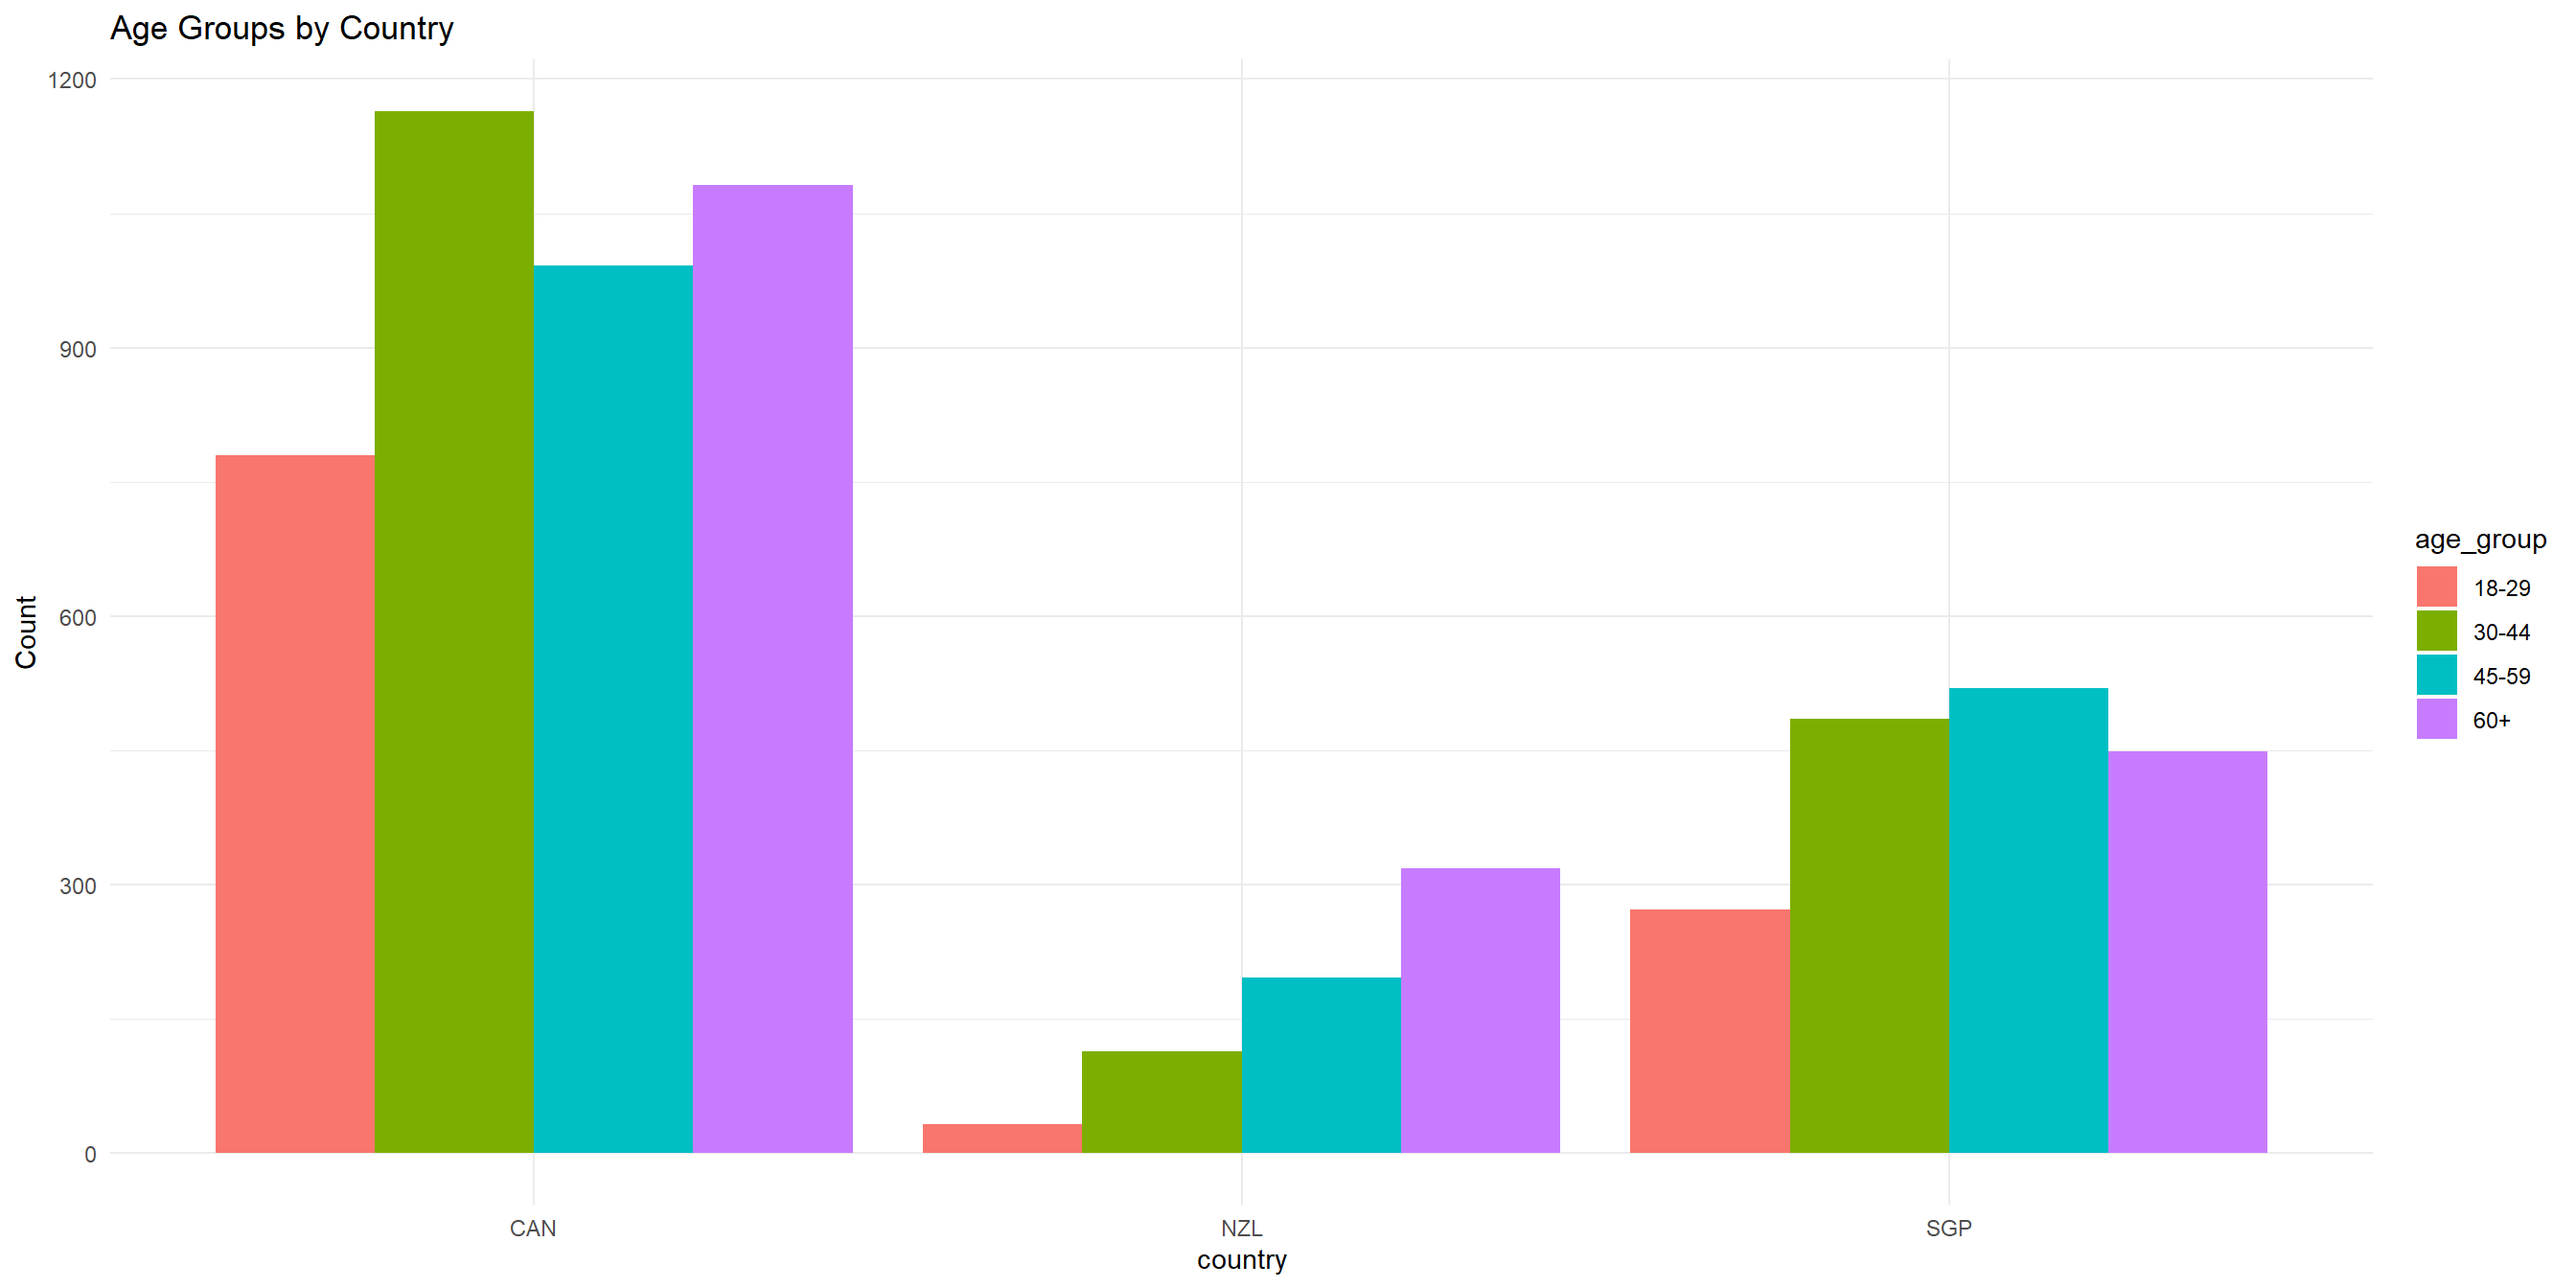
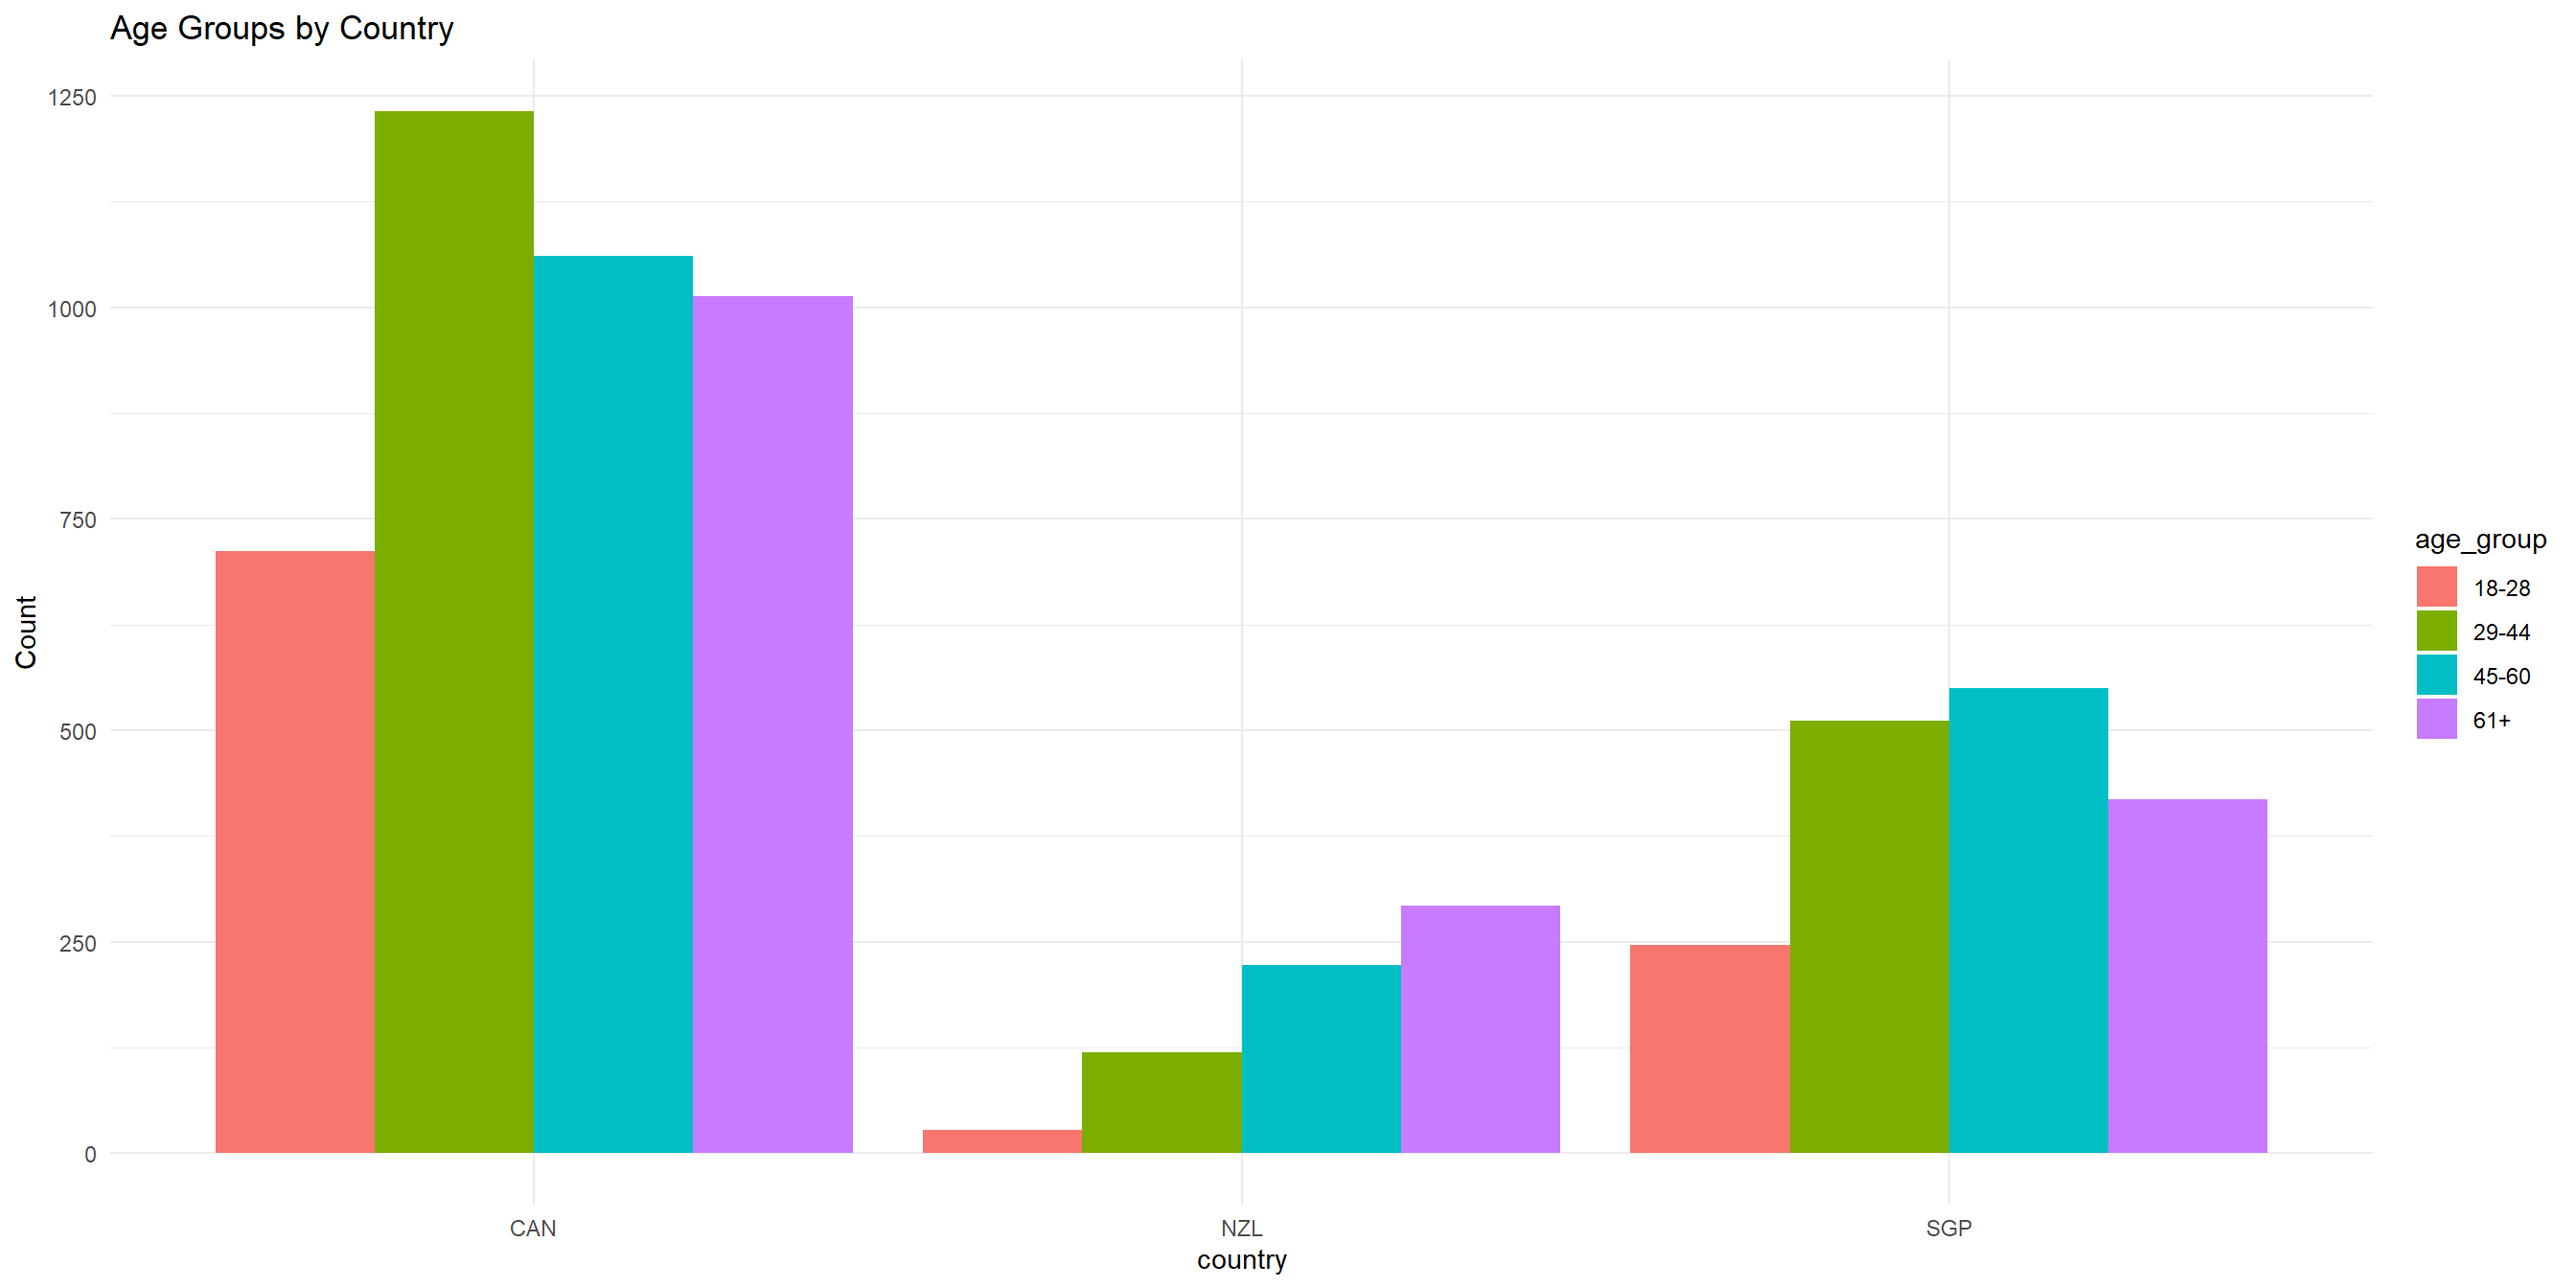
Built site for gh-pages

diff --git a/dataset.html b/dataset.html
@@ -148,7 +148,8 @@ gtag('config', 'G-G5L1RGYC4H', { 'anonymize_ip': true});
     <h2 id="toc-title">On this page</h2>
    
   <ul>
-  <li><a href="#data-dictionary-for-wvs-dataset" id="toc-data-dictionary-for-wvs-dataset" class="nav-link active" data-scroll-target="#data-dictionary-for-wvs-dataset">Data Dictionary for WVS dataset</a></li>
+  <li><a href="#data-for-session-3-onwards" id="toc-data-for-session-3-onwards" class="nav-link active" data-scroll-target="#data-for-session-3-onwards">Data for session 3 onwards</a></li>
+  <li><a href="#data-dictionary-for-wvs-dataset" id="toc-data-dictionary-for-wvs-dataset" class="nav-link" data-scroll-target="#data-dictionary-for-wvs-dataset">Data Dictionary for WVS dataset</a></li>
   <li><a href="#references" id="toc-references" class="nav-link" data-scroll-target="#references">References</a></li>
   </ul>
 </nav>
@@ -177,6 +178,9 @@ gtag('config', 'G-G5L1RGYC4H', { 'anonymize_ip': true});
 
 <p>For this workshop, we will be using dataset stored in a CSV file called <code>wvs-wave7-sg-ca-nz.csv</code>.</p>
 <a href="https://raw.githubusercontent.com/bellaratmelia/introductory-r-socsci/refs/heads/main/data/wvs-wave7-sg-ca-nz.csv" type="button" class="btn btn-success">Click here to open wvs-wave7-sg-ca-nz.csv, and then Ctrl + S / Cmd + S to save it locally into your data folder</a>
+<section id="data-for-session-3-onwards" class="level3">
+<h3 class="anchored" data-anchor-id="data-for-session-3-onwards">Data for session 3 onwards</h3>
+<p>If you missed Session 2 where we cleaned and tidy our data, you can download the cleaned data here: <a href="https://raw.githubusercontent.com/bellaratmelia/introductory-r-socsci/refs/heads/main/data-output/wvs_cleaned_v1.csv">wvs_cleaned_v1.csv</a></p>
 <div class="callout callout-style-simple callout-note callout-titled">
 <div class="callout-header d-flex align-content-center">
 <div class="callout-icon-container">
@@ -192,6 +196,7 @@ What is a CSV?
 <p>You can open CSV files in Excel, Google Sheets, or even Notepad!</p>
 </div>
 </div>
+</section>
 <section id="data-dictionary-for-wvs-dataset" class="level3">
 <h3 class="anchored" data-anchor-id="data-dictionary-for-wvs-dataset">Data Dictionary for WVS dataset</h3>
 <p>The World Values Survey (&lt;www.worldvaluessurvey.org&gt;) is a global network of social scientists studying changing values and their impact on social and political life, led by an international team of scholars, with the WVS association and secretariat headquartered in Stockholm, Sweden.</p>

diff --git a/03-visualization.html b/03-visualization.html
@@ -241,7 +241,7 @@ Bella Ratmelia
 <span id="cb1-2"><a></a><span class="fu">library</span>(tidyverse)</span>
 <span id="cb1-3"><a></a></span>
 <span id="cb1-4"><a></a><span class="co"># read the CSV with WVS data</span></span>
-<span id="cb1-5"><a></a>wvs_cleaned <span class="ot">&lt;-</span> <span class="fu">read_csv</span>(<span class="st">"data-output/wvs_processed.csv"</span>)</span>
+<span id="cb1-5"><a></a>wvs_cleaned <span class="ot">&lt;-</span> <span class="fu">read_csv</span>(<span class="st">"data-output/wvs_cleaned_v1.csv"</span>)</span>
 <span id="cb1-6"><a></a></span>
 <span id="cb1-7"><a></a><span class="co"># Convert categorical variables to factors</span></span>
 <span id="cb1-8"><a></a>columns_to_convert <span class="ot">&lt;-</span> <span class="fu">c</span>(<span class="st">"country"</span>, <span class="st">"religiousity"</span>, <span class="st">"sex"</span>, <span class="st">"marital_status"</span>, <span class="st">"employment"</span>)</span>
@@ -629,10 +629,10 @@ Bella Ratmelia
 <div class="cell-output cell-output-stdout">
 <pre><code>       
          CAN  NZL  SGP
-  18-29  780   32  272
-  30-44 1164  114  485
-  45-59  992  196  519
-  60+   1082  318  449</code></pre>
+  18-28  712   27  246
+  29-44 1232  119  511
+  45-60 1061  222  550
+  61+   1013  292  418</code></pre>
 </div>
 </div>
 </section>
@@ -649,18 +649,18 @@ Bella Ratmelia
 # Groups:   country [3]
    country age_group     n   prop
    &lt;fct&gt;   &lt;chr&gt;     &lt;int&gt;  &lt;dbl&gt;
- 1 CAN     18-29       780 0.194 
- 2 CAN     30-44      1164 0.290 
- 3 CAN     45-59       992 0.247 
- 4 CAN     60+        1082 0.269 
- 5 NZL     18-29        32 0.0485
- 6 NZL     30-44       114 0.173 
- 7 NZL     45-59       196 0.297 
- 8 NZL     60+         318 0.482 
- 9 SGP     18-29       272 0.158 
-10 SGP     30-44       485 0.281 
-11 SGP     45-59       519 0.301 
-12 SGP     60+         449 0.260 </code></pre>
+ 1 CAN     18-28       712 0.177 
+ 2 CAN     29-44      1232 0.307 
+ 3 CAN     45-60      1061 0.264 
+ 4 CAN     61+        1013 0.252 
+ 5 NZL     18-28        27 0.0409
+ 6 NZL     29-44       119 0.180 
+ 7 NZL     45-60       222 0.336 
+ 8 NZL     61+         292 0.442 
+ 9 SGP     18-28       246 0.143 
+10 SGP     29-44       511 0.296 
+11 SGP     45-60       550 0.319 
+12 SGP     61+         418 0.242 </code></pre>
 </div>
 </div>
 </section>
